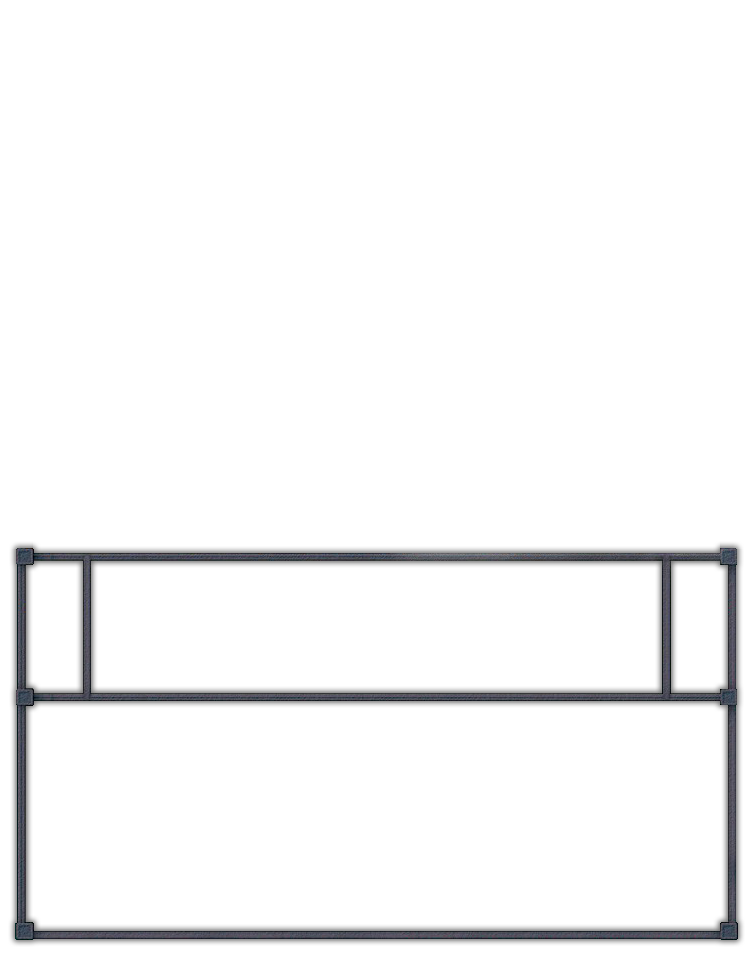
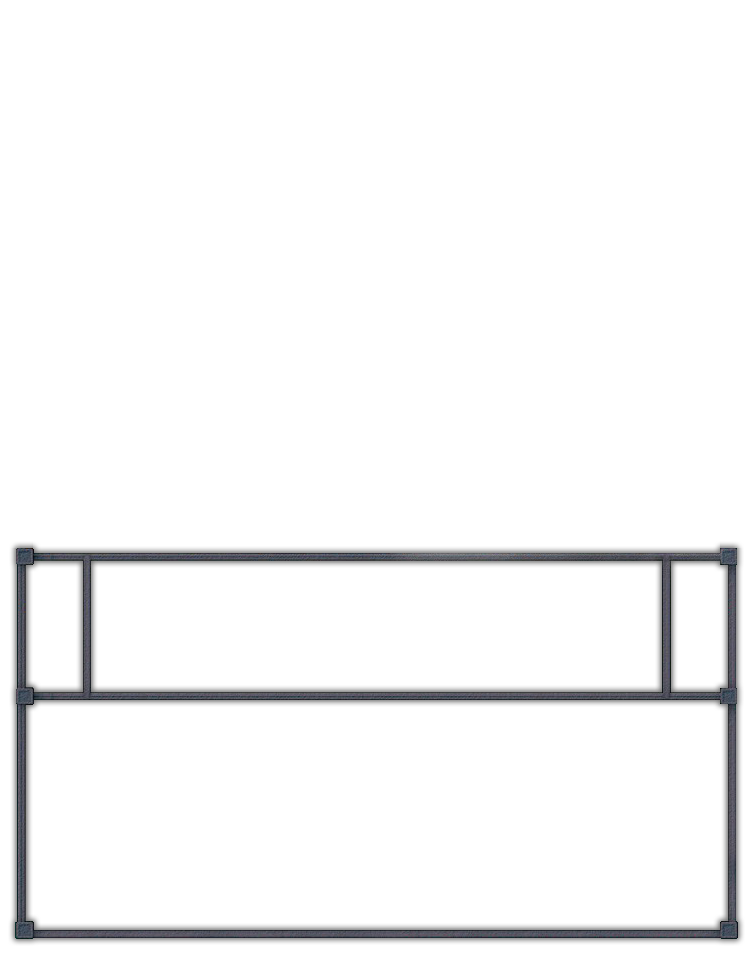
fix: double shadow for pendulum cards

diff --git a/src/draw/predefined-section/layout.ts b/src/draw/predefined-section/layout.ts
@@ -627,10 +627,10 @@ export const getLayoutDrawFunction = ({
             await drawAssetWithSize(
                 pendulumBorderCtx,
                 `frame-pendulum/border-pendulum-${pendulumSize}`
-                + `-${usedFoil}`
-                + '-artless'
-                + (pendulumFrameTypeMap.blue === 'scaleless' ? '-scaleless' : '')
-                + '.png',
+                    + `-${usedFoil}`
+                    + '-artless'
+                    + (pendulumFrameTypeMap.blue === 'scaleless' ? '-scaleless' : '')
+                    + '.png',
                 30, topToPendulumStructureFrame,
                 pendulumFrameWidth / 2, pendulumFrameHeight,
                 0, 0,
@@ -639,10 +639,10 @@ export const getLayoutDrawFunction = ({
             await drawAssetWithSize(
                 pendulumBorderCtx,
                 `frame-pendulum/border-pendulum-${pendulumSize}`
-                + `-${usedFoil}`
-                + '-artless'
-                + (pendulumFrameTypeMap.red === 'scaleless' ? '-scaleless' : '')
-                + '.png',
+                    + `-${usedFoil}`
+                    + '-artless'
+                    + (pendulumFrameTypeMap.red === 'scaleless' ? '-scaleless' : '')
+                    + '.png',
                 30 + pendulumFrameWidth / 2, topToPendulumStructureFrame,
                 pendulumFrameWidth / 2, pendulumFrameHeight,
                 pendulumFrameWidth / 2, 0,
@@ -664,8 +664,8 @@ export const getLayoutDrawFunction = ({
                     await drawAsset(
                         pendulumBorderFoilCtx,
                         `frame-pendulum/border-pendulum-${pendulumSize}`
-                        + `-${usedFoil}`
-                        + '.png',
+                            + `-${usedFoil}`
+                            + '.png',
                         30, topToPendulumStructureFrame,
                     );
                     const { canvas: dyedPendulumBorderFoilCanvas } = dyeCanvas(pendulumBorderFoilCanvas, dyeList[6]);
@@ -674,8 +674,8 @@ export const getLayoutDrawFunction = ({
                     await drawAsset(
                         pendulumBorderCtx,
                         `frame-pendulum/border-pendulum-${pendulumSize}`
-                        + `-${foilType}`
-                        + '.png',
+                            + `-${foilType}`
+                            + '.png',
                         30, topToPendulumStructureFrame,
                     );
                 }
@@ -767,7 +767,7 @@ export const getLayoutDrawFunction = ({
         drawAttributeFinish: async () => {
             if (attribute !== NO_ATTRIBUTE && ctx) {
                 ctx.scale(globalScale, globalScale);
-                await loopFinish(ctx, 'attribute', async type => drawAsset(ctx, `finish/finish-${type}-attribute.png`, 678, 55));
+                await loopFinish(ctx, 'attribute', async type => drawAsset(ctx, `finish/finish-${type}-attribute.png`, attributeX, attributeY));
                 ctx.resetTransform();
             }
         },

diff --git a/src/service/use-master-seri/index.tsx b/src/service/use-master-seri/index.tsx
@@ -484,7 +484,7 @@ export const useMasterSeriDrawer = (active: boolean, canvasMap: MasterSeriesCanv
                 await drawPendulumScaleIcon();
                 /** Draw normal border first so we got the shadow ready. Again foiled border DOES NOT have shadow by their own. */
                 await drawPendulumBorder(hasArtBorder, 'normal');
-                await drawPendulumBorder(hasArtBorder, foil, true);
+                if (foil !== 'normal') await drawPendulumBorder(hasArtBorder, foil, true);
                 await drawPendulumArtBorderFinish();
                 if (hasArtBorder) await drawBorderPendulumFinish();
             }
@@ -506,7 +506,7 @@ export const useMasterSeriDrawer = (active: boolean, canvasMap: MasterSeriesCanv
                 } else if (isPendulum) {
                     if (hasArtBorder) {
                         await drawPendulumBorder(hasArtBorder, 'normal');
-                        await drawPendulumBorder(hasArtBorder, foil, true);
+                        if (foil !== 'normal') await drawPendulumBorder(hasArtBorder, foil, true);
                     }
                     await drawPendulumArtBorderFinish();
                 }
@@ -532,7 +532,7 @@ export const useMasterSeriDrawer = (active: boolean, canvasMap: MasterSeriesCanv
                     await drawEffectBackground({ withPendulum: true });
                     await drawPendulumScaleIcon();
                     await drawPendulumBorder(false, 'normal');
-                    await drawPendulumBorder(false, foil, true);
+                    if (foil !== 'normal') await drawPendulumBorder(false, foil, true);
                     await drawBorderPendulumFinish();
                 } else if (keepEffectBox) {
                     await drawEffectBackground({});

diff --git a/src/model/canvas.ts b/src/model/canvas.ts
@@ -64,7 +64,7 @@ export const CanvasConst = {
     /** Pure structure is visible frame on the card, the frame of that structure has a bit padding for shadow around it. */
     topToPendulumStructureFrame: 185,
     topToArtFrame: 213,
-    pendulumStructureHeight: 912,
+    pendulumStructureHeight: 910,
     pendulumIconFrameWidth: 813,
     pendulumIconFrameHeight: 100,
     pendulumFrameWidth: 753,
@@ -80,7 +80,7 @@ export const CanvasConst = {
     stickerSize: 52,
     attributeSize: 77,
     attributeY: 55,
-    attributeX: 678,
+    attributeX: 679,
     stickerX: 739.1438,
     stickerY: 1110.938,
     iconWidth: 43,

diff --git a/src/util/canvas/dye.ts b/src/util/canvas/dye.ts
@@ -14,6 +14,10 @@ export const dyeCanvas = (baseCanvas: HTMLCanvasElement, color: string, width = 
 
     const { ctx: overlayContext, canvas: overlayCanvas } = createCanvas(width, height);
 
+    if (!overlayContext) return {
+        canvas: baseCanvas,
+        ctx: baseCanvas.getContext('2d'),
+    };
     /** Draw the target image with grayscale */
     overlayContext.filter = 'grayscale(1)';
     overlayContext.drawImage(baseCanvas, 0, 0);
